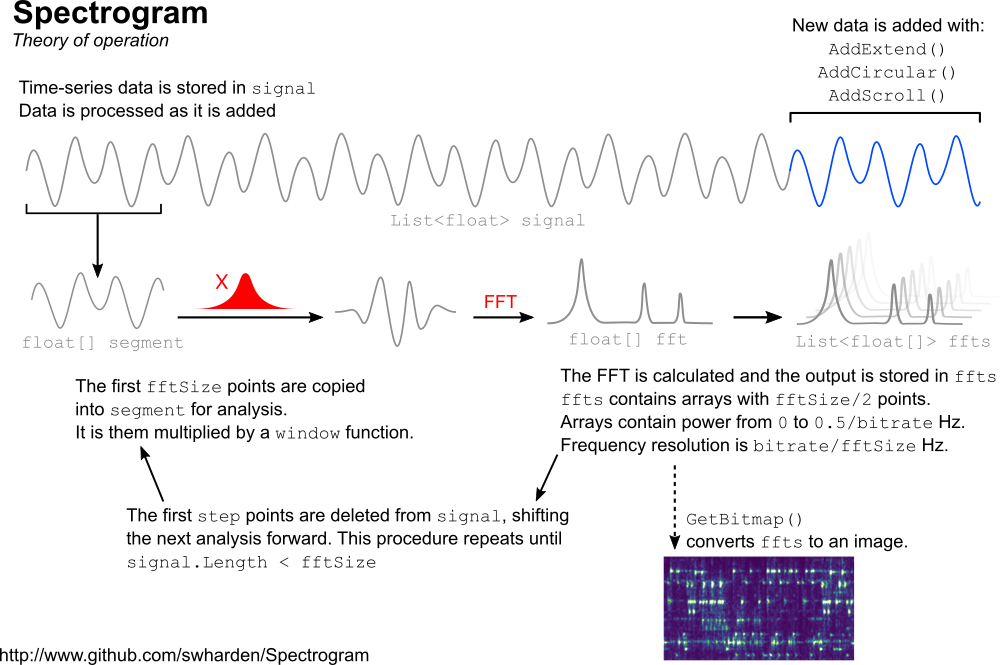
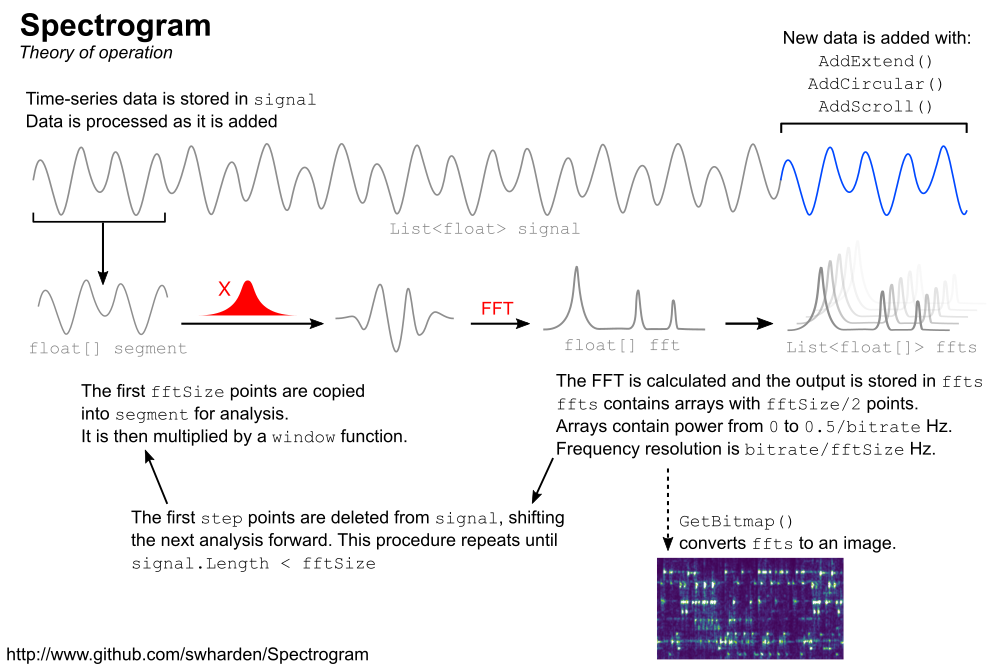
fix typo

diff --git a/README.md b/README.md
@@ -54,8 +54,6 @@ This demo program was created to demonstrate Spectrogram and ScottPlot working t
 
 ## Developer Notes
 
-This project is still a work in progress.
-
 ![](/dev/graphics/theory-of-operation.png)
 
 ### TODO:
